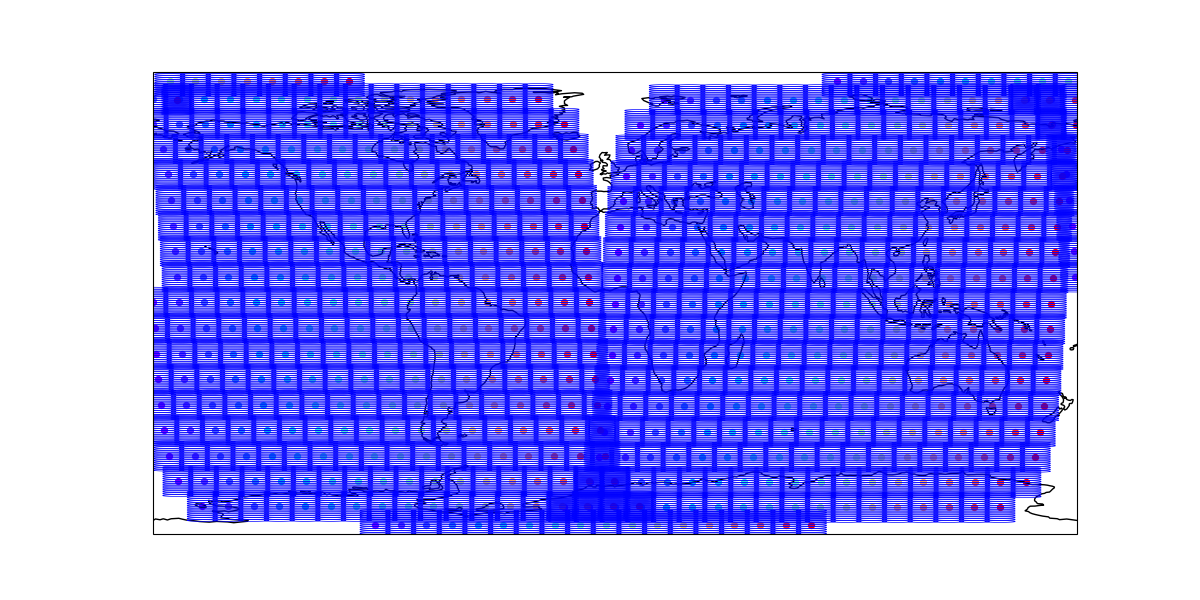
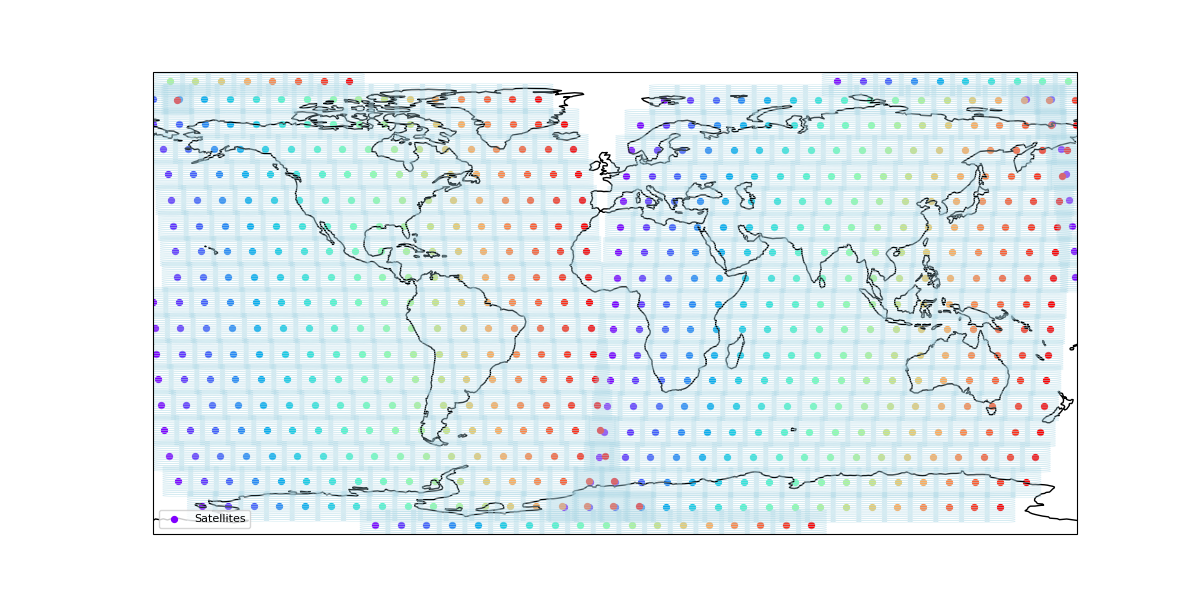
add plot

diff --git a/LEOEnvironment.py b/LEOEnvironment.py
@@ -26,6 +26,8 @@ import numpy as np
 ###############################################################################
 #################################    Simpy    #################################
 ###############################################################################
+receivedDataBlocks = []
+createdBlocks = []
 seed = np.random.seed(1)
 
 upGSLRates = []
@@ -146,6 +148,7 @@ class Beam:
         self.load = load
         self.snr = snr
         self.id = id  # Optional: unique identifier for the beam
+        self._calculate_ellipse_parameters()
         
         if constellation == 'OneWeb': 
             self.max_capacity = 7.2 #Gbps 
@@ -157,17 +160,19 @@ class Beam:
             self.Pt = 40 #dBm - transmit power 
             self.Gt = 30 #dBi - antenna gain 
         
-        semi_axis_x = self.width_deg / 2.0
-        semi_axis_y = self.height_deg / 2.0
+    
+    def _calculate_ellipse_parameters(self):
+        """Calculates semi_major_axis, semi_minor_axis, and orientation_angle."""
+        semi_axis_x_half = abs(self.width_deg / 2.0)
+        semi_axis_y_half = abs(self.height_deg / 2.0)
 
-        self.semi_major_axis = max(semi_axis_x, semi_axis_y)
-        self.semi_minor_axis = min(semi_axis_x, semi_axis_y)
-        if self.width_deg >= self.height_deg:
-            # Major axis is horizontal (along longitude)
-            self.orientation_angle = 0.0
+        self.semi_major_axis = max(semi_axis_x_half, semi_axis_y_half)
+        self.semi_minor_axis = min(semi_axis_x_half, semi_axis_y_half)
+
+        if semi_axis_x_half >= semi_axis_y_half:
+            self.orientation_angle = 0.0  # Major axis is along the x-direction (longitude)
         else:
-            # Major axis is vertical (along latitude)
-            self.orientation_angle = 90.0
+            self.orientation_angle = 90.0 # Major axis is along the y-direction (latitude)
 
     def get_footprint(self):
         min_lon = self.center_lon - self.width_deg / 2
@@ -177,10 +182,9 @@ class Beam:
         return box(min_lon, min_lat, max_lon, max_lat)
     
     def get_footprint_eclipse(self, num_segments=100):
-        # Create a circle, then scale and rotate it to form an ellipse
-        # This approach is often easier than generating points directly for an ellipse
-        
-        # Start with a unit circle centered at (0,0)
+        """
+        Generates a Shapely Polygon representing the elliptical footprint.
+        """
         circle_points = []
         for i in range(num_segments):
             angle = 2 * math.pi * i / num_segments
@@ -188,24 +192,17 @@ class Beam:
             y = math.sin(angle)
             circle_points.append((x, y))
         
-        # Create a Polygon from the circle points
-        ellipse = Polygon(circle_points)
+        ellipse_base = Polygon(circle_points)
         
-        # Scale to desired semi-axes (assuming semi_major_axis along x, semi_minor_axis along y initially)
-        # Note: You might need to swap these depending on your desired ellipse orientation
-        ellipse = scale(ellipse, self.semi_major_axis, self.semi_minor_axis, origin=(0,0))
+        if self.orientation_angle == 0.0:
+            scaled_ellipse = scale(ellipse_base, self.semi_major_axis, self.semi_minor_axis, origin=(0,0))
+        else: # self.orientation_angle == 90.0
+            scaled_ellipse = scale(ellipse_base, self.semi_minor_axis, self.semi_major_axis, origin=(0,0))
+            scaled_ellipse = rotate(scaled_ellipse, self.orientation_angle, origin=(0,0))
+
+        final_ellipse = translate(scaled_ellipse, xoff=self.center_lon, yoff=self.center_lat)
         
-        # Rotate to the desired orientation
-        ellipse = rotate(ellipse, self.orientation_angle, origin=(0,0))
-        
-        # Translate to the beam's center (lon, lat)
-        # Assuming your lon/lat are in degrees and represent a flat projection for this
-        # If working with spherical coordinates, this will be more complex and require
-        # projecting points onto a 2D plane before forming the ellipse, then projecting back,
-        # or using a library that handles geodesic ellipses.
-        ellipse = translate(ellipse, xoff=self.center_lon, yoff=self.center_lat)
-        
-        return ellipse
+        return final_ellipse
 
 class Satellite:
     def __init__(self, ID, in_plane, i_in_plane, h, longitude, inclination, n_sat, env, quota = 500, power = 10):
@@ -376,10 +373,12 @@ class Satellite:
                 self.beams[i].center_lon = center_lon
                 self.beams[i].width_deg = beam_width_deg
                 self.beams[i].height_deg = beam_height_deg
+                self.beams[i]._calculate_ellipse_parameters()
         else:
                 # Center beam
             self.beams[0].center_lat = sat_lat
             self.beams[0].center_lon = sat_lon
+            self.beams[0]._calculate_ellipse_parameters() 
             # 15 beams around the center in a circle
             radius_deg = beam_height_deg * 4
             n_beams_side = n_beams - 1
@@ -391,6 +390,7 @@ class Satellite:
                 center_lon = sat_lon + dlon
                 self.beams[i].center_lat = center_lat
                 self.beams[i].center_lon = center_lon
+                self.beams[i]._calculate_ellipse_parameters()
 
     def adjustDownRate(self):
 
@@ -699,45 +699,61 @@ class Earth:
                 constellation.rotate(deltaT)
             yield env.timeout(deltaT)    
 
-    def plotMap(self, plotSat = True, plotBeams = True, path = None, bottleneck = None):
+    def plotMap(self, plotSat = True, plotBeams = True, plotUsers = True, users=None, selected_beam_id=None, path = None, bottleneck = None):
         print("Plotting map")
-        #plt.figure()
         fig = plt.figure(figsize=(12, 6))
         ax = plt.axes(projection=ccrs.PlateCarree())
         ax.coastlines()
         ax.set_global()
 
         colors = matplotlib.cm.rainbow(np.linspace(0, 1, len(self.LEO)))
-        if self.constellationType =="OneWeb":
-            for plane, c in zip(self.LEO, colors):
-                for sat in plane.sats:
-                    lon = math.degrees(sat.longitude)
-                    lat = math.degrees(sat.latitude)
-                    if plotSat:
-                        ax.scatter(lon, lat, color=c, s=18, transform=ccrs.PlateCarree())
-                    if plotBeams:
-                        for beam in sat.beams:
-                            footprint = beam.get_footprint_eclipse()
-                            feature = ShapelyFeature([footprint], ccrs.PlateCarree(), edgecolor='blue', facecolor='none', linewidth=0.5)
-                            ax.add_feature(feature)
-        else:
-            for plane, c in zip(self.LEO, colors):
-                for sat in plane.sats:
-                    lon = math.degrees(sat.longitude)
-                    lat = math.degrees(sat.latitude)
-                    if plotSat:
-                        ax.scatter(lon, lat, color=c, s=18, transform=ccrs.PlateCarree())
-                    if plotBeams:
-                        sat.beams[len(sat.beams) - 1].center_lon = lon
-                        sat.beams[len(sat.beams) - 1].center_lat = lat
-                        for beam in sat.beams:
-                            beam_lon = beam.center_lon
-                            beam_lat = beam.center_lat
-                            # Draw a cross at the beam center
-                            ax.plot(beam_lon, beam_lat, marker='x', markersize=2, color='blue')
         
-        # if plotSat: 
-        #     plt.legend([scat2], ['Satellites'], loc=3, prop={'size': 7})
+        for plane, c in zip(self.LEO, colors):
+            for sat in plane.sats:
+                lon = math.degrees(sat.longitude)
+                lat = math.degrees(sat.latitude)
+                if plotSat:
+                    ax.scatter(lon, lat, color=c, s=18, transform=ccrs.PlateCarree(), label='Satellites' if plane.ID == self.LEO[0].ID and sat.ID == plane.sats[0].ID else "")
+                if plotBeams: # Only plot beams if plotBeams is True
+                    for beam in sat.beams:
+                        # Determine color and linewidth based on whether it's the selected beam
+                        if selected_beam_id and beam.id == selected_beam_id:
+                            edge_color = 'red'
+                            line_width = 1.5
+                            alpha_val = 1.0
+                        else:
+                            edge_color = 'lightblue' # Very light color for other beams
+                            line_width = 0.4
+                            alpha_val = 0.5 # Make it semi-transparent
+
+                        footprint = beam.get_footprint_eclipse()
+                        feature = ShapelyFeature([footprint], ccrs.PlateCarree(), edgecolor=edge_color, facecolor='none', linewidth=line_width, alpha=alpha_val)
+                        ax.add_feature(feature)
+        
+        if plotUsers and users: # Only plot users if plotUsers is True and users list is provided
+            user_lons = [user.longitude for user in users]
+            user_lats = [user.latitude for user in users]
+            ax.scatter(user_lons, user_lats, color='black', marker='x', s=50, transform=ccrs.PlateCarree(), label='Users')
+            
+            # Optionally plot user connection lines
+            for user in users:
+                if user.connected_satellite:
+                    user_lon_rad = math.radians(user.longitude)
+                    user_lat_rad = math.radians(user.latitude)
+                    sat_lon_rad = user.connected_satellite.longitude
+                    sat_lat_rad = user.connected_satellite.latitude
+                    
+                    # Convert to degrees for plotting
+                    line_lons = [user.longitude, math.degrees(sat_lon_rad)]
+                    line_lats = [user.latitude, math.degrees(sat_lat_rad)]
+                    ax.plot(line_lons, line_lats, color='green', linewidth=0.8, linestyle='--', transform=ccrs.PlateCarree())
+
+
+        # Create a single legend for all plotted elements
+        handles, labels = ax.get_legend_handles_labels()
+        by_label = dict(zip(labels, handles))
+        if by_label:
+            plt.legend(by_label.values(), by_label.keys(), loc='lower left', prop={'size': 8})
 
         # plt.xticks([])
         # plt.yticks([])
@@ -762,11 +778,12 @@ class Earth:
         ax.scatter(xs, ys, zs, marker='o')
         plt.show()
 
-    def save_plot_at_intervals(self, env, interval=1):
+    def save_plot_at_intervals(self, env, interval=1, plotSat=True, plotBeams=True, plotUsers=False, users=None):
         img_count = 0
         while True:
             print(f"Saving plot {img_count} at simulation time {env.now}")
-            self.plotMap(plotSat=True)
+            selected_beam_id = users[0].connected_beam.id if users and users[0].connected_beam else None
+            self.plotMap(plotSat=plotSat, plotBeams=plotBeams, plotUsers=plotUsers, users=users, selected_beam_id=selected_beam_id)
             plt.savefig(f"simulationImages/sat_positions_{img_count}.png")
             plt.close()
             img_count += 1
